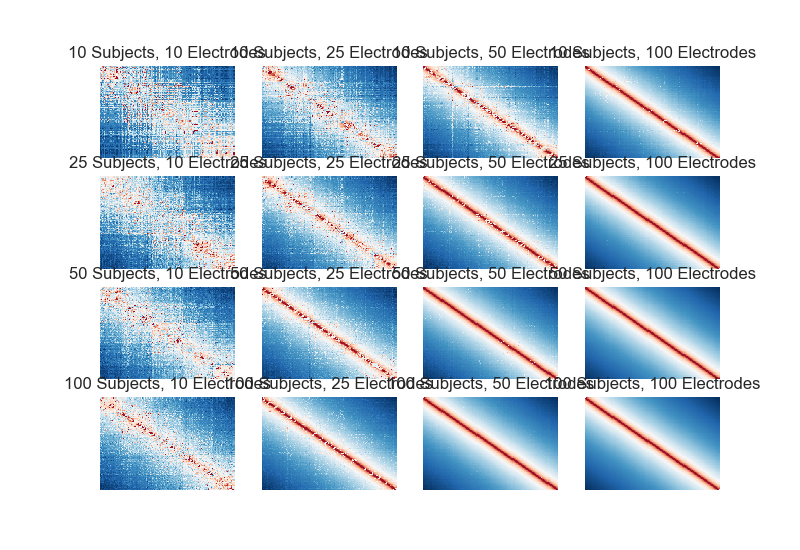
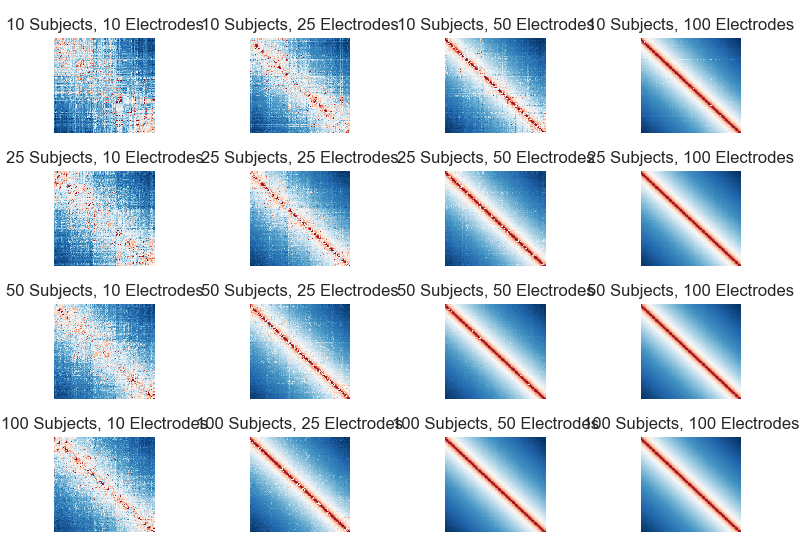
tighten layout for reconstruct correlation example

diff --git a/docs/auto_examples/plot_reconstruct_correlation_matrix.py b/docs/auto_examples/plot_reconstruct_correlation_matrix.py
@@ -67,6 +67,5 @@ for isub, n_subs in enumerate([10, 25, 50, 100]):
         # set the title
         axarr[isub,ielec].set_title(str(n_subs) + ' Subjects, ' + str(n_elecs) + ' Electrodes')
 
-        print(str(n_subs) + ' Subjects, ' + str(n_elecs) + ' Electrodes')
-
+sns.plt.tight_layout()
 sns.plt.show()

diff --git a/examples/plot_reconstruct_correlation_matrix.py b/examples/plot_reconstruct_correlation_matrix.py
@@ -67,6 +67,5 @@ for isub, n_subs in enumerate([10, 25, 50, 100]):
         # set the title
         axarr[isub,ielec].set_title(str(n_subs) + ' Subjects, ' + str(n_elecs) + ' Electrodes')
 
-        print(str(n_subs) + ' Subjects, ' + str(n_elecs) + ' Electrodes')
-
+sns.plt.tight_layout()
 sns.plt.show()

diff --git a/docs/auto_examples/plot_reconstruct_correlation_matrix.rst b/docs/auto_examples/plot_reconstruct_correlation_matrix.rst
@@ -23,31 +23,7 @@ the true model.
     :align: center
 
 
-.. rst-class:: sphx-glr-script-out
 
- Out::
-
-    10 Subjects, 10 Electrodes
-    10 Subjects, 25 Electrodes
-    10 Subjects, 50 Electrodes
-    10 Subjects, 100 Electrodes
-    25 Subjects, 10 Electrodes
-    25 Subjects, 25 Electrodes
-    25 Subjects, 50 Electrodes
-    25 Subjects, 100 Electrodes
-    50 Subjects, 10 Electrodes
-    50 Subjects, 25 Electrodes
-    50 Subjects, 50 Electrodes
-    50 Subjects, 100 Electrodes
-    100 Subjects, 10 Electrodes
-    100 Subjects, 25 Electrodes
-    100 Subjects, 50 Electrodes
-    100 Subjects, 100 Electrodes
-
-
-
-
-|
 
 
 .. code-block:: python
@@ -106,11 +82,10 @@ the true model.
             # set the title
             axarr[isub,ielec].set_title(str(n_subs) + ' Subjects, ' + str(n_elecs) + ' Electrodes')
 
-            print(str(n_subs) + ' Subjects, ' + str(n_elecs) + ' Electrodes')
-
+    sns.plt.tight_layout()
     sns.plt.show()
 
-**Total running time of the script:** ( 6 minutes  47.068 seconds)
+**Total running time of the script:** ( 6 minutes  26.358 seconds)
 
 
 
